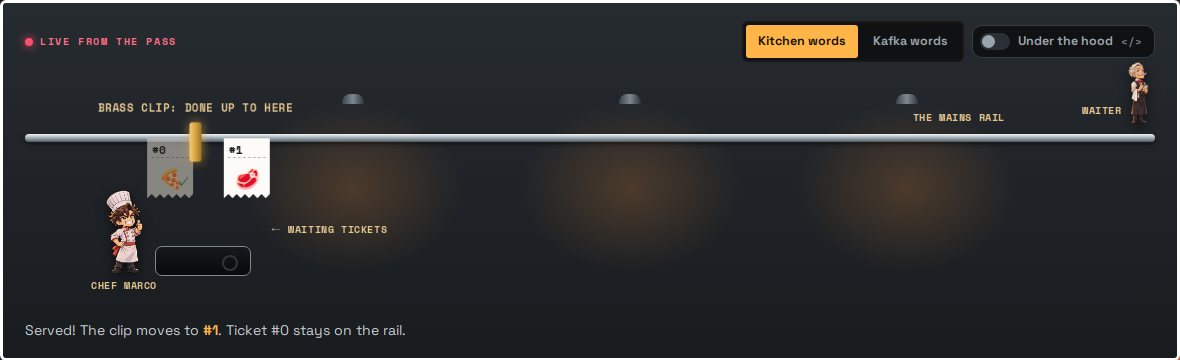
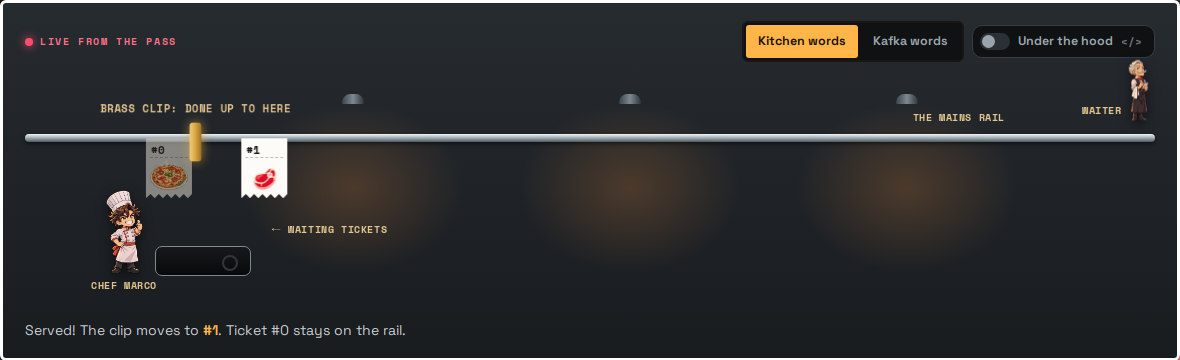
Food sprites: pizza first, the rest drop in as they arrive
emoji() draws a dish's anime sprite (cast/food/food-<name>.webp) when it
exists; the home demo's tickets and stove use the same images, falling
back to the emoji if a file is missing.

diff --git a/index.html b/index.html
@@ -536,6 +536,8 @@ canvas{border-radius:0}
 .rcap{right:150px}
 .dwaiter .sp{height:62px;width:auto;display:block;transition:transform .2s;filter:drop-shadow(0 4px 6px rgba(0,0,0,.5))}
 .dwaiter.kick .sp{transform:translateY(-6px)}
+.dtk .fd{width:38px;height:auto;display:block;margin:-4px auto 0}
+.dstove .fd{width:34px;height:auto;display:block}
 </style>
 </head>
 <body>
@@ -1576,7 +1578,21 @@ function rr(x, y, w, h, r) { ctx.beginPath(); ctx.roundRect(x, y, w, h, r) }
 function txt(s, x, y, font, color, align = 'left', base = 'alphabetic') {
   ctx.font = font; ctx.fillStyle = color; ctx.textAlign = align; ctx.textBaseline = base; ctx.fillText(s, x, y);
 }
-function emoji(e, x, y, size) { txt(e, x, y, `${size}px ${EMO}`, '#000', 'center', 'middle') }
+// Food emoji are drawn as anime food sprites once a dish's art exists (cast/food/food-<name>.webp).
+const FOOD = {'🍕': 'pizza', '🥩': 'steak', '🍝': 'pasta', '🥘': 'paella', '🍔': 'burger', '🍰': 'cake', '🧁': 'cupcake', '🍮': 'flan', '🍨': 'sundae'};
+const foodImg = {};
+function foodSprite(e) {
+  const n = FOOD[e]; if (!n) return null;
+  let im = foodImg[n];
+  if (!im) { im = foodImg[n] = new Image(); im.onerror = () => { im.bad = true }; im.src = `cast/food/food-${n}.webp` }
+  return im.complete && im.naturalWidth && !im.bad ? im : null;
+}
+const foodHTML = e => FOOD[e] ? `<img class="fd" src="cast/food/food-${FOOD[e]}.webp" alt="${e}" onerror="this.replaceWith(this.alt)">` : e;
+function emoji(e, x, y, size) {
+  const im = foodSprite(e);
+  if (im) { const w = size * 1.5, h = w * im.naturalHeight / im.naturalWidth; ctx.drawImage(im, x - w / 2, y - h / 2, w, h); return }
+  txt(e, x, y, `${size}px ${EMO}`, '#000', 'center', 'middle');
+}
 function xlabel(s, x, y, align = 'center') {
   ctx.font = `700 9px ${MONO}`;
   const w = ctx.measureText(s).width + 8, x0 = align === 'center' ? x - w / 2 : align === 'right' ? x - w : x;
@@ -2383,7 +2399,7 @@ function dTick(dt) {
   if (D.t <= 0 && lag < Math.floor((g.w - g.clipX - 70) / g.slot)) {
     D.t = 1.3 + Math.random() * 1.2;
     const el = document.createElement('div');
-    el.className = 'dtk new'; el.innerHTML = `#${D.next}<span>${DISH[D.next % DISH.length]}</span>`;
+    el.className = 'dtk new'; el.innerHTML = `#${D.next}<span>${foodHTML(DISH[D.next % DISH.length])}</span>`;
     el.style.transform = `translateX(${g.w + 30}px)`;
     $('#dtks').appendChild(el);
     D.tks.push({n: D.next, el});
@@ -2394,7 +2410,7 @@ function dTick(dt) {
   }
   if (!D.cook && D.rest <= 0) {
     const t = D.tks.find(t => t.n === D.clip);
-    if (t) { D.cook = {t, left: 2.4}; t.el.classList.add('cook'); $('#dstove').classList.add('on'); $('#dchef').src = 'cast/marco/chibi-cook.webp'; $('#dpan').textContent = t.el.querySelector('span').textContent; D.last = {kind: 'cook', n: t.n}; dEvent('cook', t.n) }
+    if (t) { D.cook = {t, left: 2.4}; t.el.classList.add('cook'); $('#dstove').classList.add('on'); $('#dchef').src = 'cast/marco/chibi-cook.webp'; $('#dpan').innerHTML = t.el.querySelector('span').innerHTML; D.last = {kind: 'cook', n: t.n}; dEvent('cook', t.n) }
   } else if (D.cook && (D.cook.left -= dt) <= 0) {
     const {t} = D.cook;
     t.el.classList.replace('cook', 'done'); D.clip++; D.cook = null; D.rest = .6;
